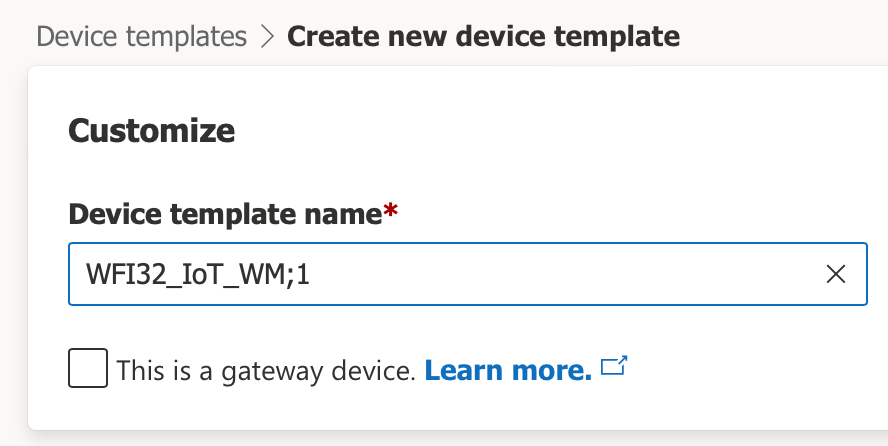
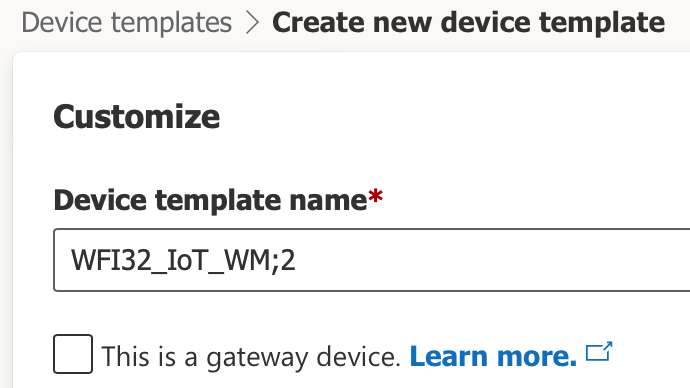
Update for WFI32_IoT_WM;2

diff --git a/WFI32_IoT_Central.md b/WFI32_IoT_Central.md
@@ -99,7 +99,7 @@ IoT Central allows you to create an application dashboard to monitor the telemet
 
     <img src=".//media/image71.png" style="width:5.in;height:2.68982in" alt="A screenshot of a cell phone Description automatically generated" />
 
-7.	Type `WFI32_IoT_WM;1` in the `Device template name` field and click on the `Next: Review` button
+7.	Type `WFI32_IoT_WM;2` in the `Device template name` field and click on the `Next: Review` button
 
     <img src=".//media/image72.png" style="width:5.in;height:1.68982in" alt="A screenshot of a cell phone Description automatically generated" />
 
@@ -111,7 +111,7 @@ IoT Central allows you to create an application dashboard to monitor the telemet
 
     <img src=".//media/image74.png" style="width:5.in;height:2.68982in" alt="A screenshot of a cell phone Description automatically generated" />
 
-10.	Navigate to the `device_model` folder (located in the demo top-level main folder) and select the latest device model file to upload (e.g. `wfi32_iot_wm-1.json`)
+10.	Navigate to the `device_model` folder (located in the demo top-level main folder) and select the latest device model file to upload (e.g. `wfi32_iot_wm-2.json`)
 
     <img src=".//media/image77.png">
 
@@ -121,7 +121,7 @@ IoT Central allows you to create an application dashboard to monitor the telemet
 
     <img src=".//media/image78.png">
 
-13.	Click on the template name (e.g. WFI32_IoT_WM;1), then click on `Views`
+13.	Click on the template name (e.g. WFI32_IoT_WM;2), then click on `Views`
 
     <img src=".//media/image78a.png">
 
